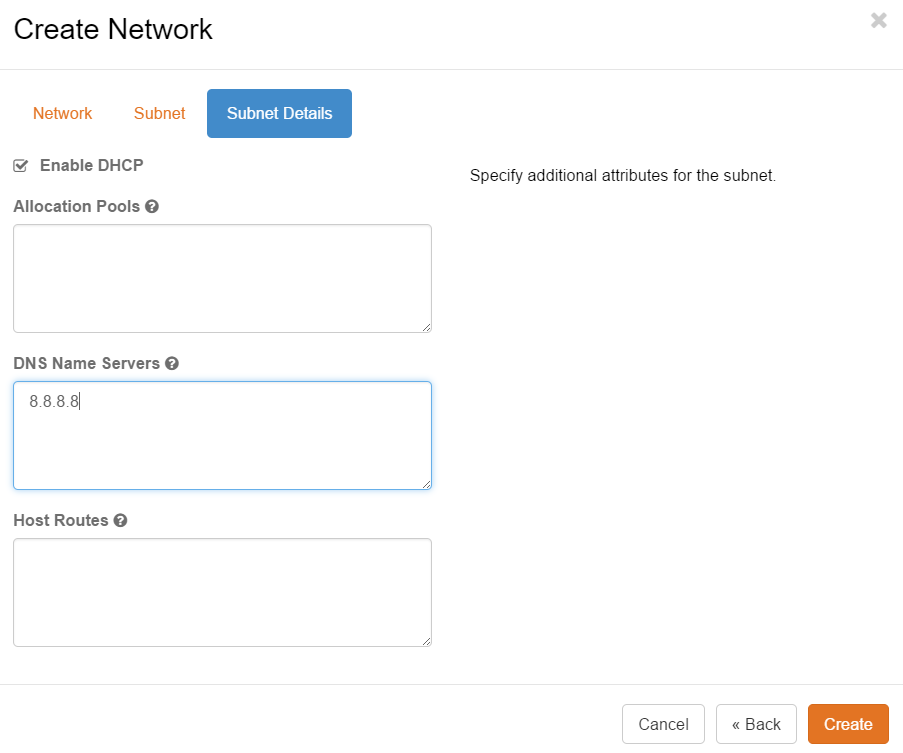
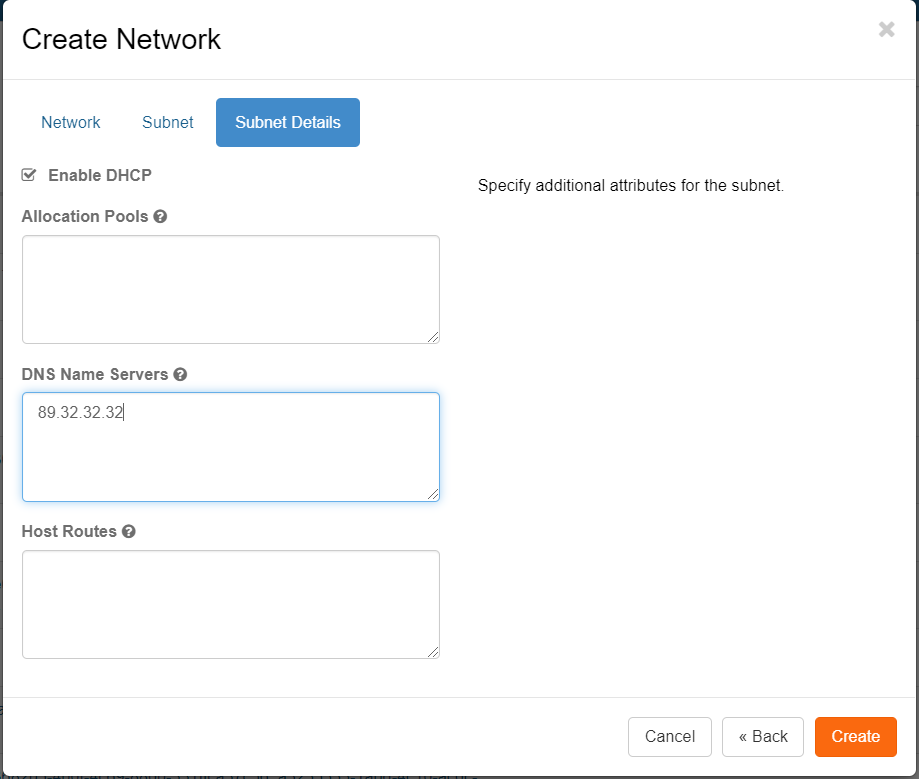
Updated to SUNETs resolver instead of Google

Changed region(s): [[0.0, 0.0, 1.0, 1.0], [0.155, 0.0916, 0.4031, 0.2138], [0.5271, 0.2138, 0.8682, 0.2444]]

diff --git a/content/compute/network.md b/content/compute/network.md
@@ -37,7 +37,7 @@ Just pick a private network which is not taken in your project and provide the n
 
 ![Create network dialogue 2](/images/create-network-dia2.png)
 
-The next dialogue will present you with some optional settings. Since the internal DNS resolver has shown to be slow at times it is highly recommended to provide an external resolver. This could be Googles (8.8.8.8) or another resolver of you liking. Click "Create".
+The next dialogue will present you with some optional settings. Since the internal DNS resolver has shown to be slow at times it is highly recommended to provide an external resolver. Use 89.32.32.32 which is SUNETs resolver. Click "Create".
 
 ## Connect the network to your router
 Navigate to Network->Routers again and click the title of you router:

diff --git a/content/service/known_issues.md b/content/service/known_issues.md
@@ -16,7 +16,7 @@ We excpect to support user initiated resize operations after a future system upg
 The built in resolver in the platform has some issues in the current version.
 It has been reported to be slow and not to respond to queries in a timely
 manner. The best work around is to provide another resolver when creating the
-network to which you connect your instances. It is done in the third tab in the
+network to which you connect your instances. Use 89.32.32.32 which is SUNETs resolver. It is done in the third tab in the
 "Create Network" dialogue:
 
 ![Create Network Tab 3](/images/create-network-dia2.png)
